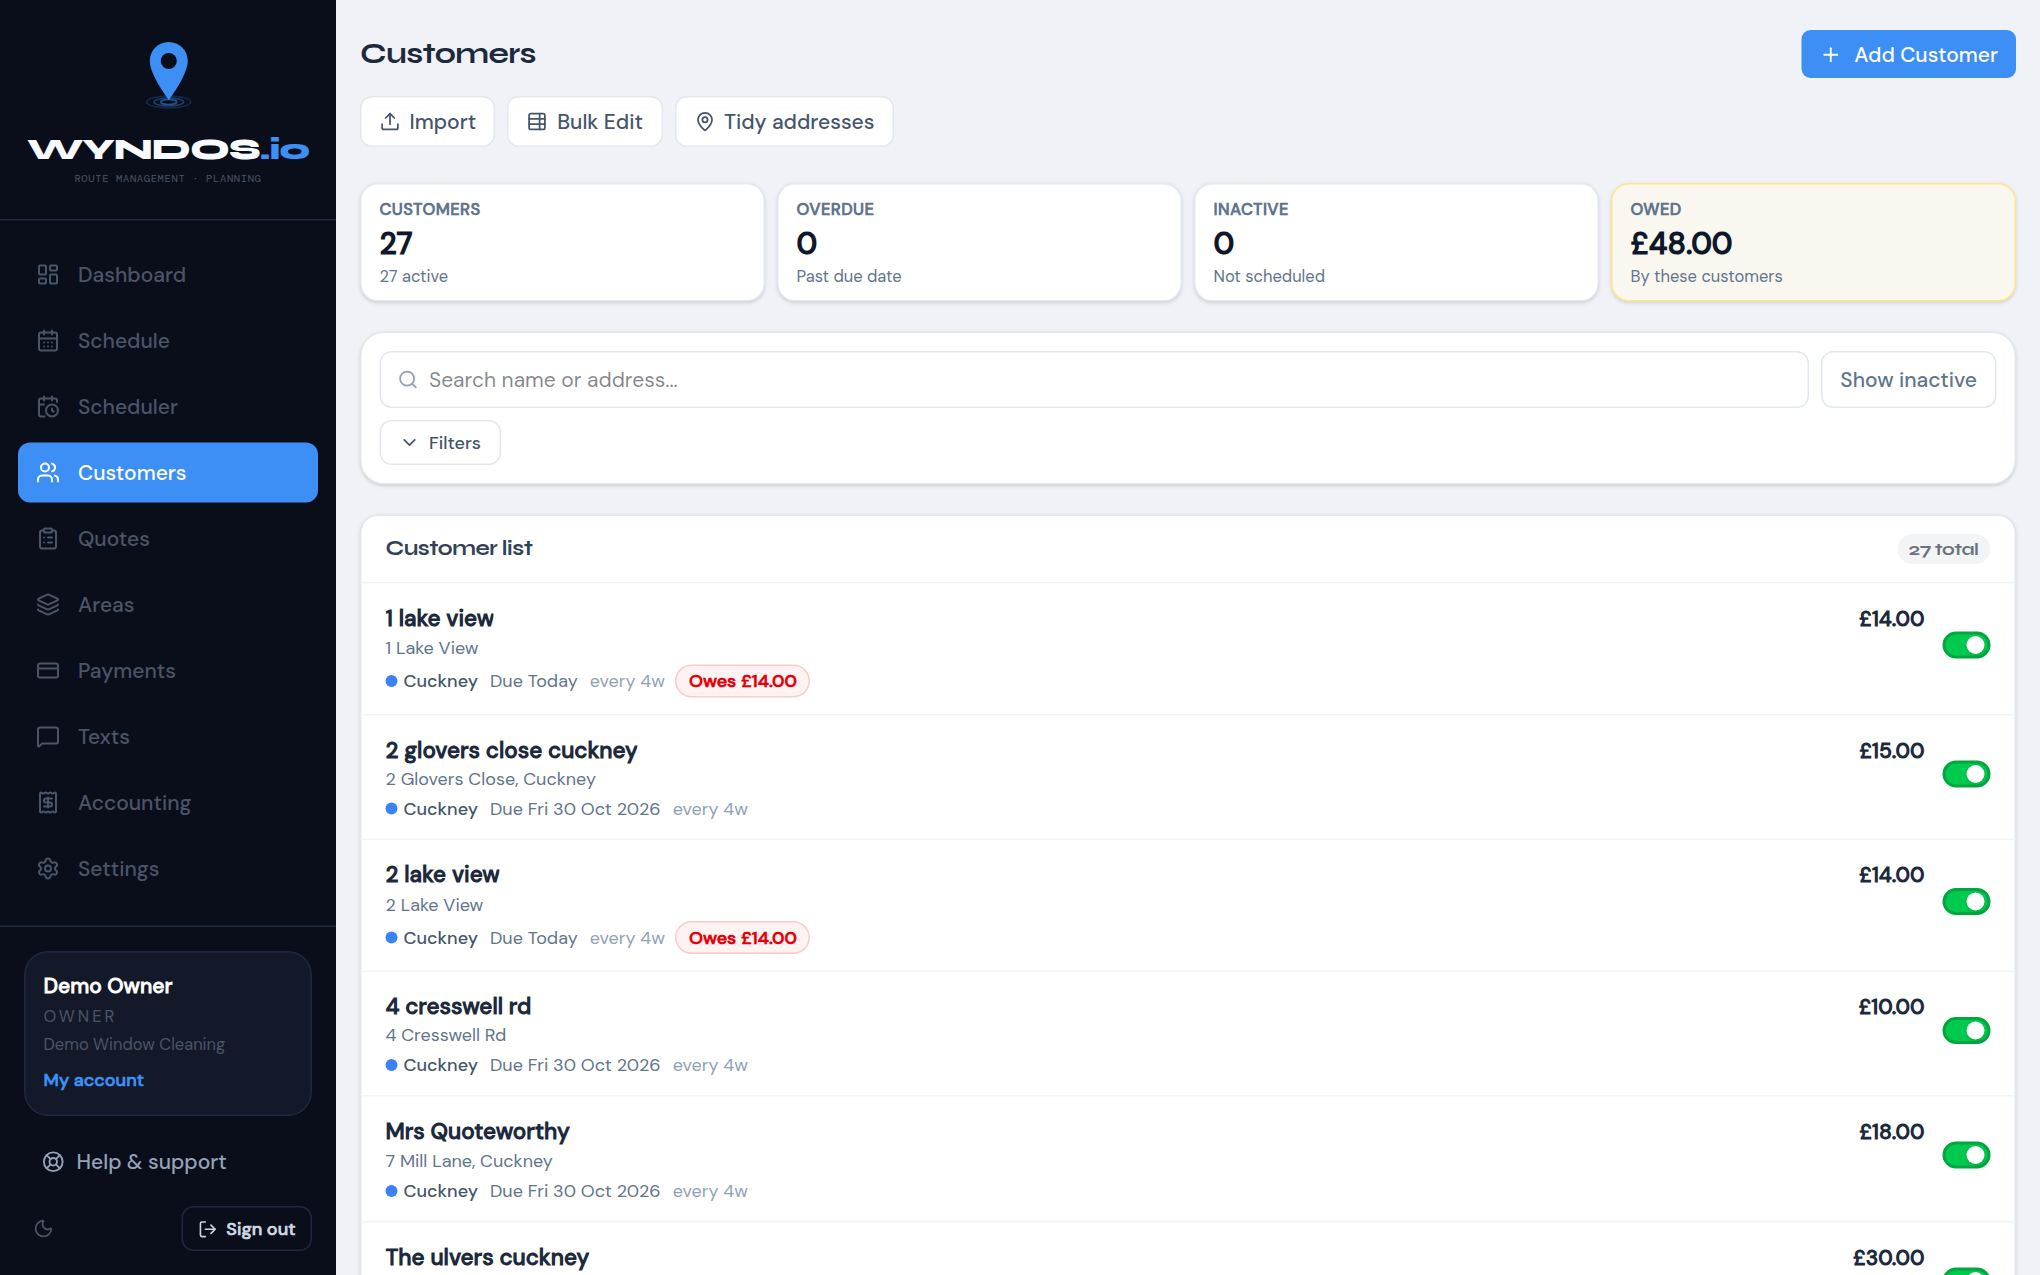
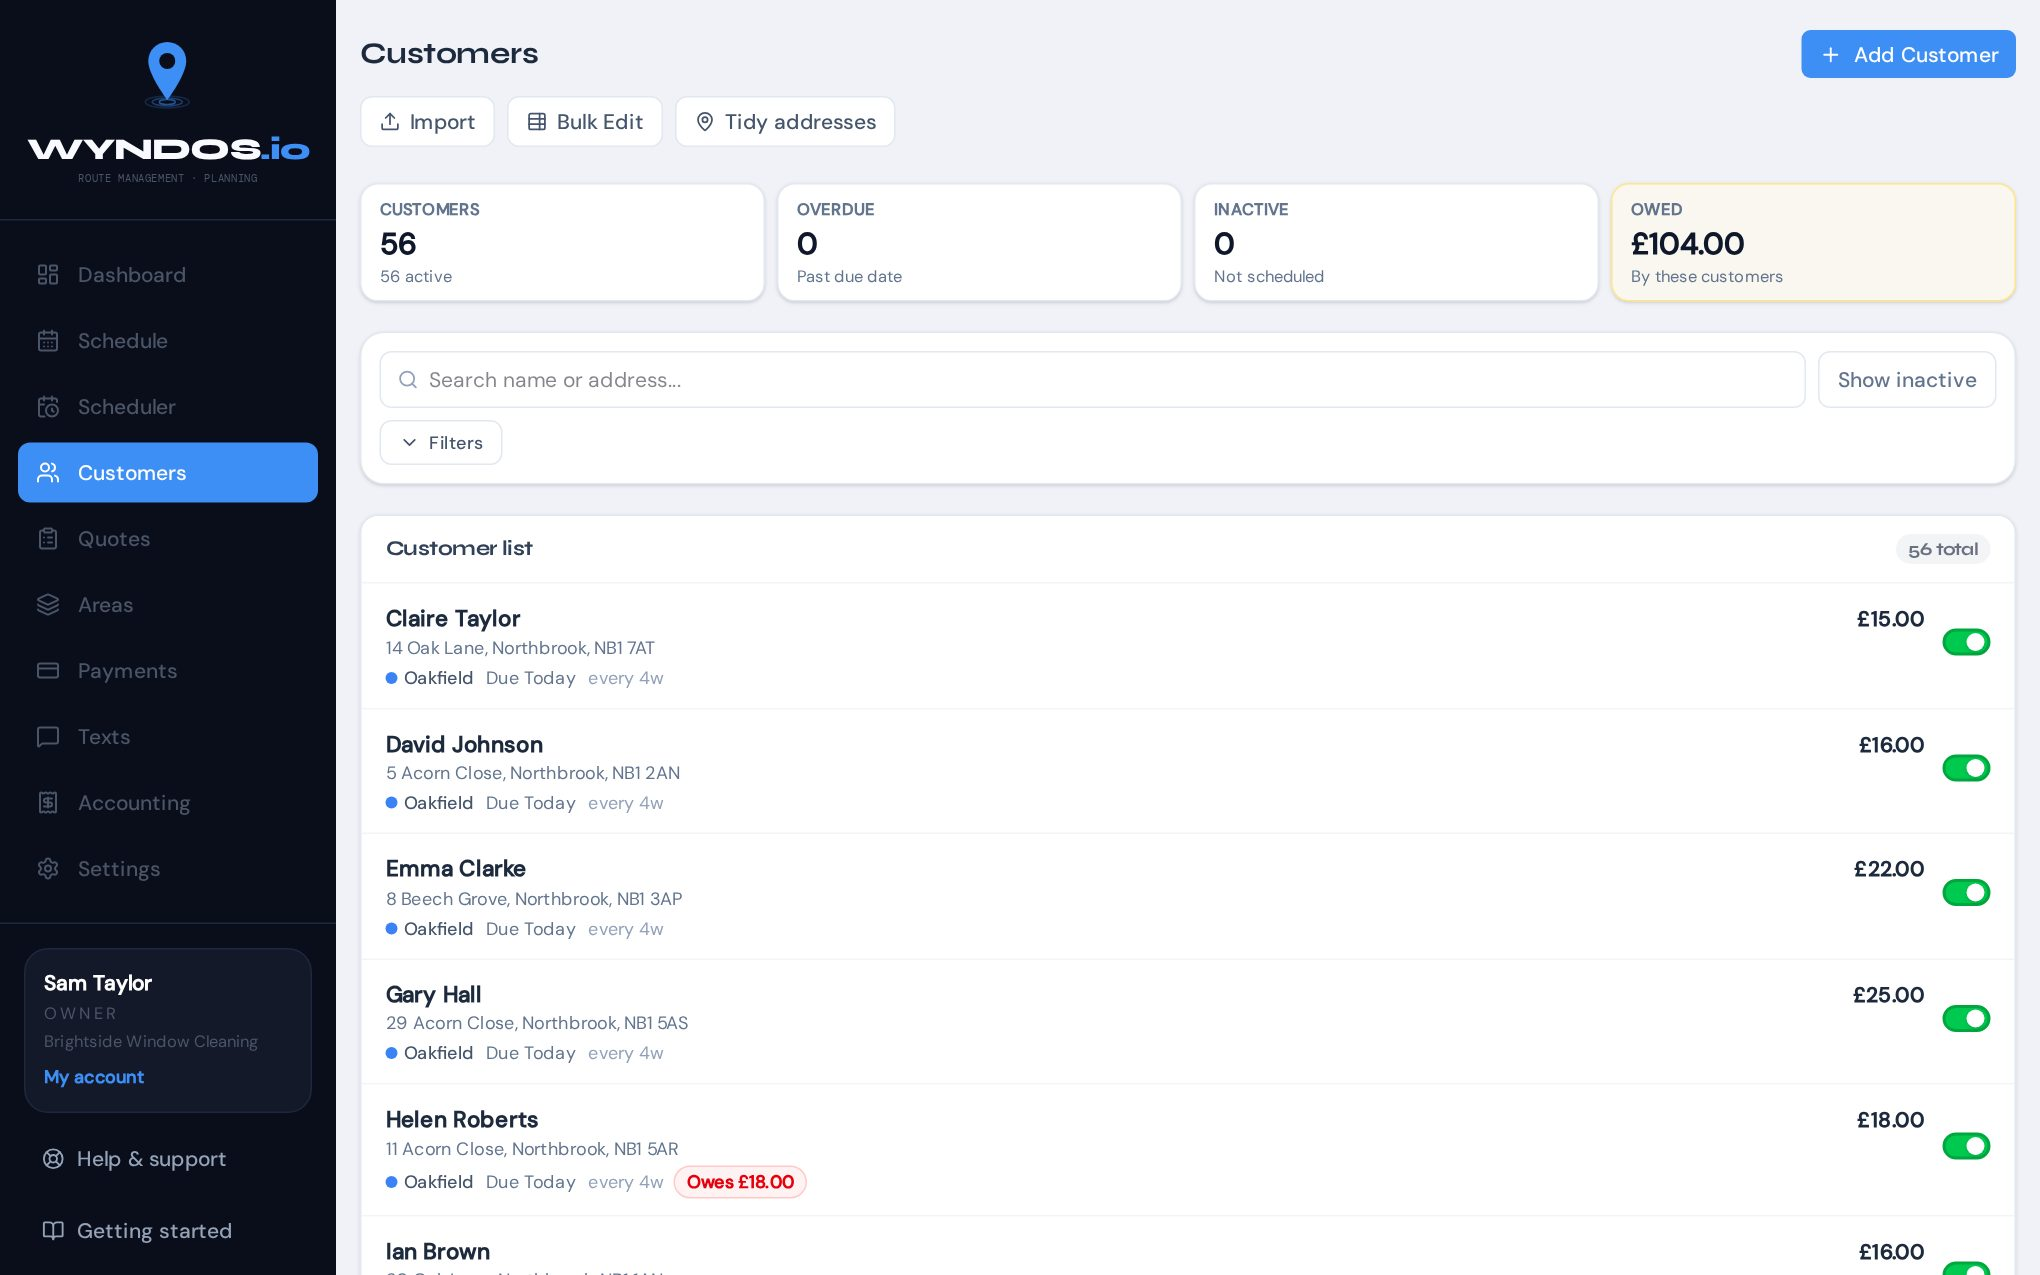
Landing page screenshots retaken from the made-up demo business (no real customers); scripts to refresh them
Claude-Session: https://claude.ai/code/session_018TbwbMSTtitEBGZQuPvv75

diff --git a/scripts/seed-guide-demo.ts b/scripts/seed-guide-demo.ts
@@ -15,6 +15,7 @@ import { TERMS_VERSION } from "../src/lib/legal";
 const PASSWORD = "GuideDemo123!";
 const SLUG = "brightside-demo";
 
+/** Today's date as the server sees it (UTC), plus offset days. The screenshot scripts use UTC too. */
 const day = (offset: number) => {
   const n = new Date();
   return new Date(Date.UTC(n.getUTCFullYear(), n.getUTCMonth(), n.getUTCDate() + offset));
@@ -184,7 +185,9 @@ async function main() {
 
   const fs = await import("node:fs");
   fs.mkdirSync(".tmp-test", { recursive: true });
-  fs.writeFileSync(".tmp-test/guide-ids.json", JSON.stringify({ oakfield: oak.id, riverside: river.id }));
+  // A customer who still owes from last month's run, for the "customer at a glance" screenshot.
+  const owing = await prisma.customer.findFirst({ where: { tenantId, areaId: areaIds["Station Road"], payments: { none: {} } }, orderBy: { sortOrder: "asc" }, select: { id: true } });
+  fs.writeFileSync(".tmp-test/guide-ids.json", JSON.stringify({ oakfield: oak.id, riverside: river.id, owingCustomer: owing?.id }));
   console.log(`Demo business ${tenantId} ready. Owner sam@example.com, worker jamie@example.com, password ${PASSWORD}`);
 }
 

diff --git a/scripts/landing-compress.py b/scripts/landing-compress.py
@@ -1,0 +1,8 @@
+"""Turn .tmp-test/landing-shots/*.png into public/screens/*.jpg for the landing page."""
+from pathlib import Path
+from PIL import Image
+
+for f in sorted(Path(".tmp-test/landing-shots").glob("*.png")):
+    out = Path("public/screens") / (f.stem + ".jpg")
+    Image.open(f).convert("RGB").save(out, "JPEG", quality=82, optimize=True, progressive=True)
+    print(f.stem, Image.open(out).size, out.stat().st_size // 1024, "KB")

diff --git a/HANDOFF.md b/HANDOFF.md
@@ -137,3 +137,4 @@ Round management for window cleaners (wyndos.io). Owner: Tom. Keep replies to To
 - Screenshots in `public/screens/guide/*.webp`, from a made-up business. To refresh after UI changes:
   `DATABASE_URL=… npx tsx scripts/seed-guide-demo.ts` → run the app → `node scripts/guide-screenshots.mjs` → `python3 scripts/guide-compress.py`.
   Demo logins: sam@example.com / jamie@example.com, password GuideDemo123! (local/staging only, never production).
+- Landing page screenshots (`public/screens/*.jpg`) come from the same demo business: `node scripts/landing-screenshots.mjs` then `python3 scripts/landing-compress.py`. Run the app with TZ=UTC so server and browser agree on today.
